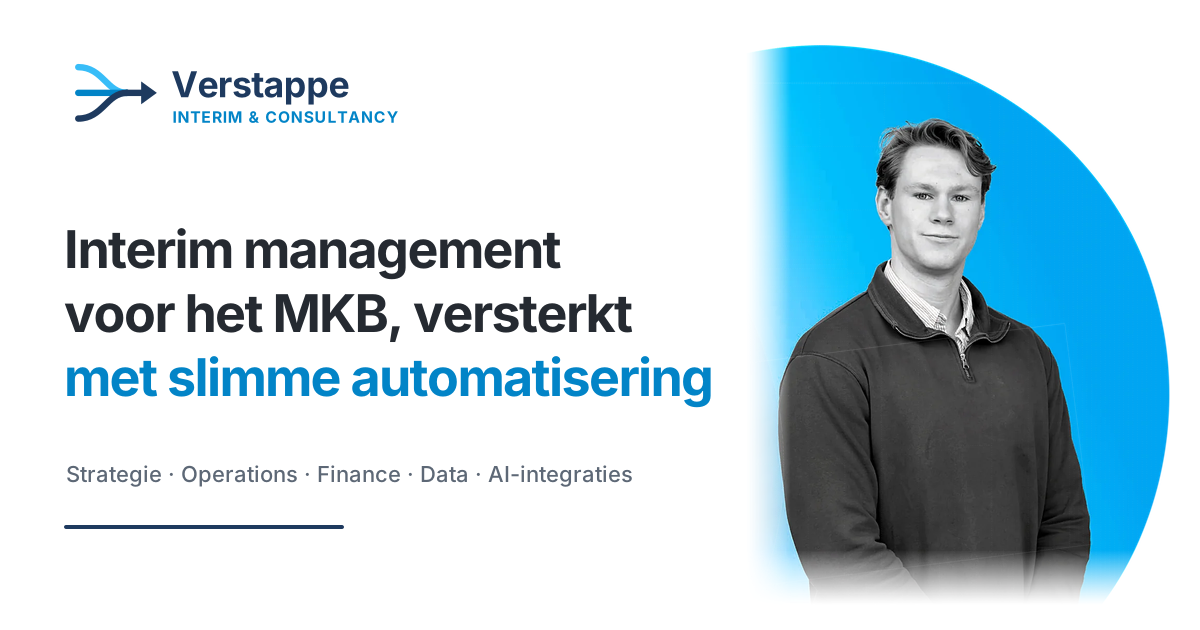
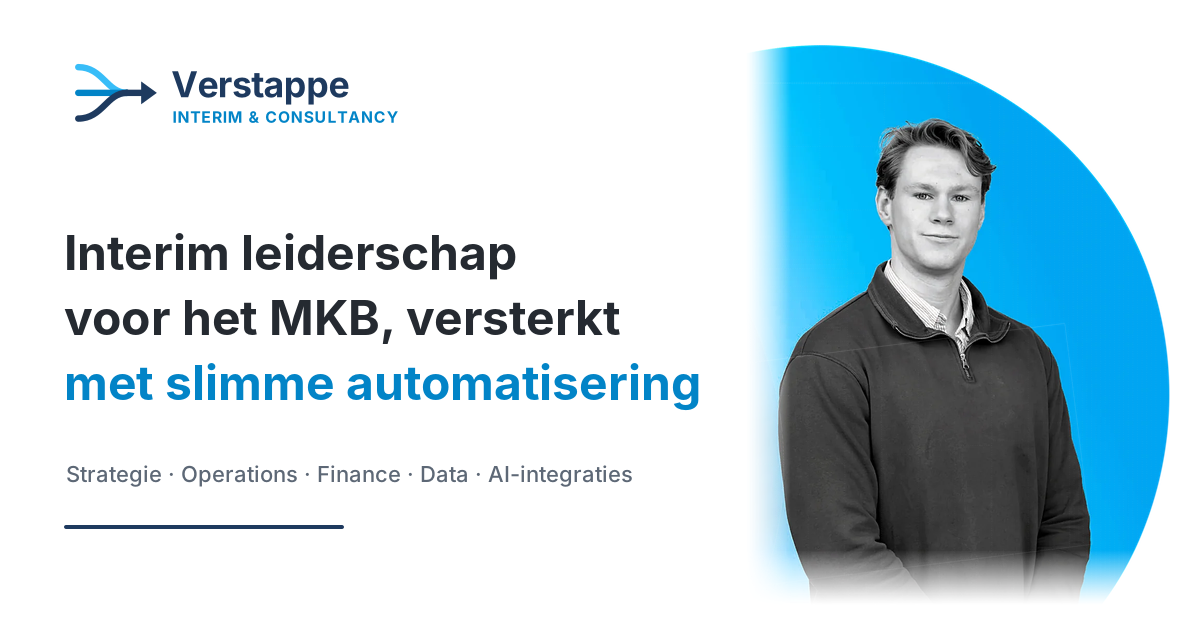
Deelafbeelding Interim leiderschap; partnerlogo's linken naar websites
Claude-Session: https://claude.ai/code/session_01HT6bYabLcDgL9VSyq7Qzue

Changed region(s): [[0.0308, 0.3619, 0.5242, 0.5429], [0.0617, 0.573, 0.6167, 0.6635]]

diff --git a/index.html b/index.html
@@ -377,10 +377,10 @@ body.typing .cur,body.typing .ring{opacity:0!important}
   </div>
   <div class="marquee rv"><div class="track" id="track">
     <div class="logo"><img src="img/nextgen.webp" alt="NextGen" title="NextGen"></div>
-    <div class="logo"><img src="img/gwynt.webp" alt="Gwynt" title="Gwynt"></div>
+    <a class="logo" href="https://www.gwynt.eu/" target="_blank" rel="noopener"><img src="img/gwynt.webp" alt="Gwynt" title="Gwynt"></a>
     <div class="logo"><img src="img/torpstra.webp" alt="Torpstra Performance Improvement" title="Torpstra Performance Improvement"></div>
     <div class="logo"><img src="img/salohe.webp" alt="Salohe" title="Salohe"></div>
-    <div class="logo"><img src="img/kroonkozijn.webp" alt="Kroonkozijn B.V." title="Kroonkozijn B.V."></div>
+    <a class="logo" href="https://www.kroonkozijn.nl/" target="_blank" rel="noopener"><img src="img/kroonkozijn.webp" alt="Kroonkozijn B.V." title="Kroonkozijn B.V."></a>
     <div class="logo"><img src="img/boot-groningen.webp" alt="Boot Groningen B.V." title="Boot Groningen B.V."></div>
     <div class="logo"><img src="img/cupconcept.webp" alt="Cup Concept" title="Cup Concept"></div>
   </div></div>
